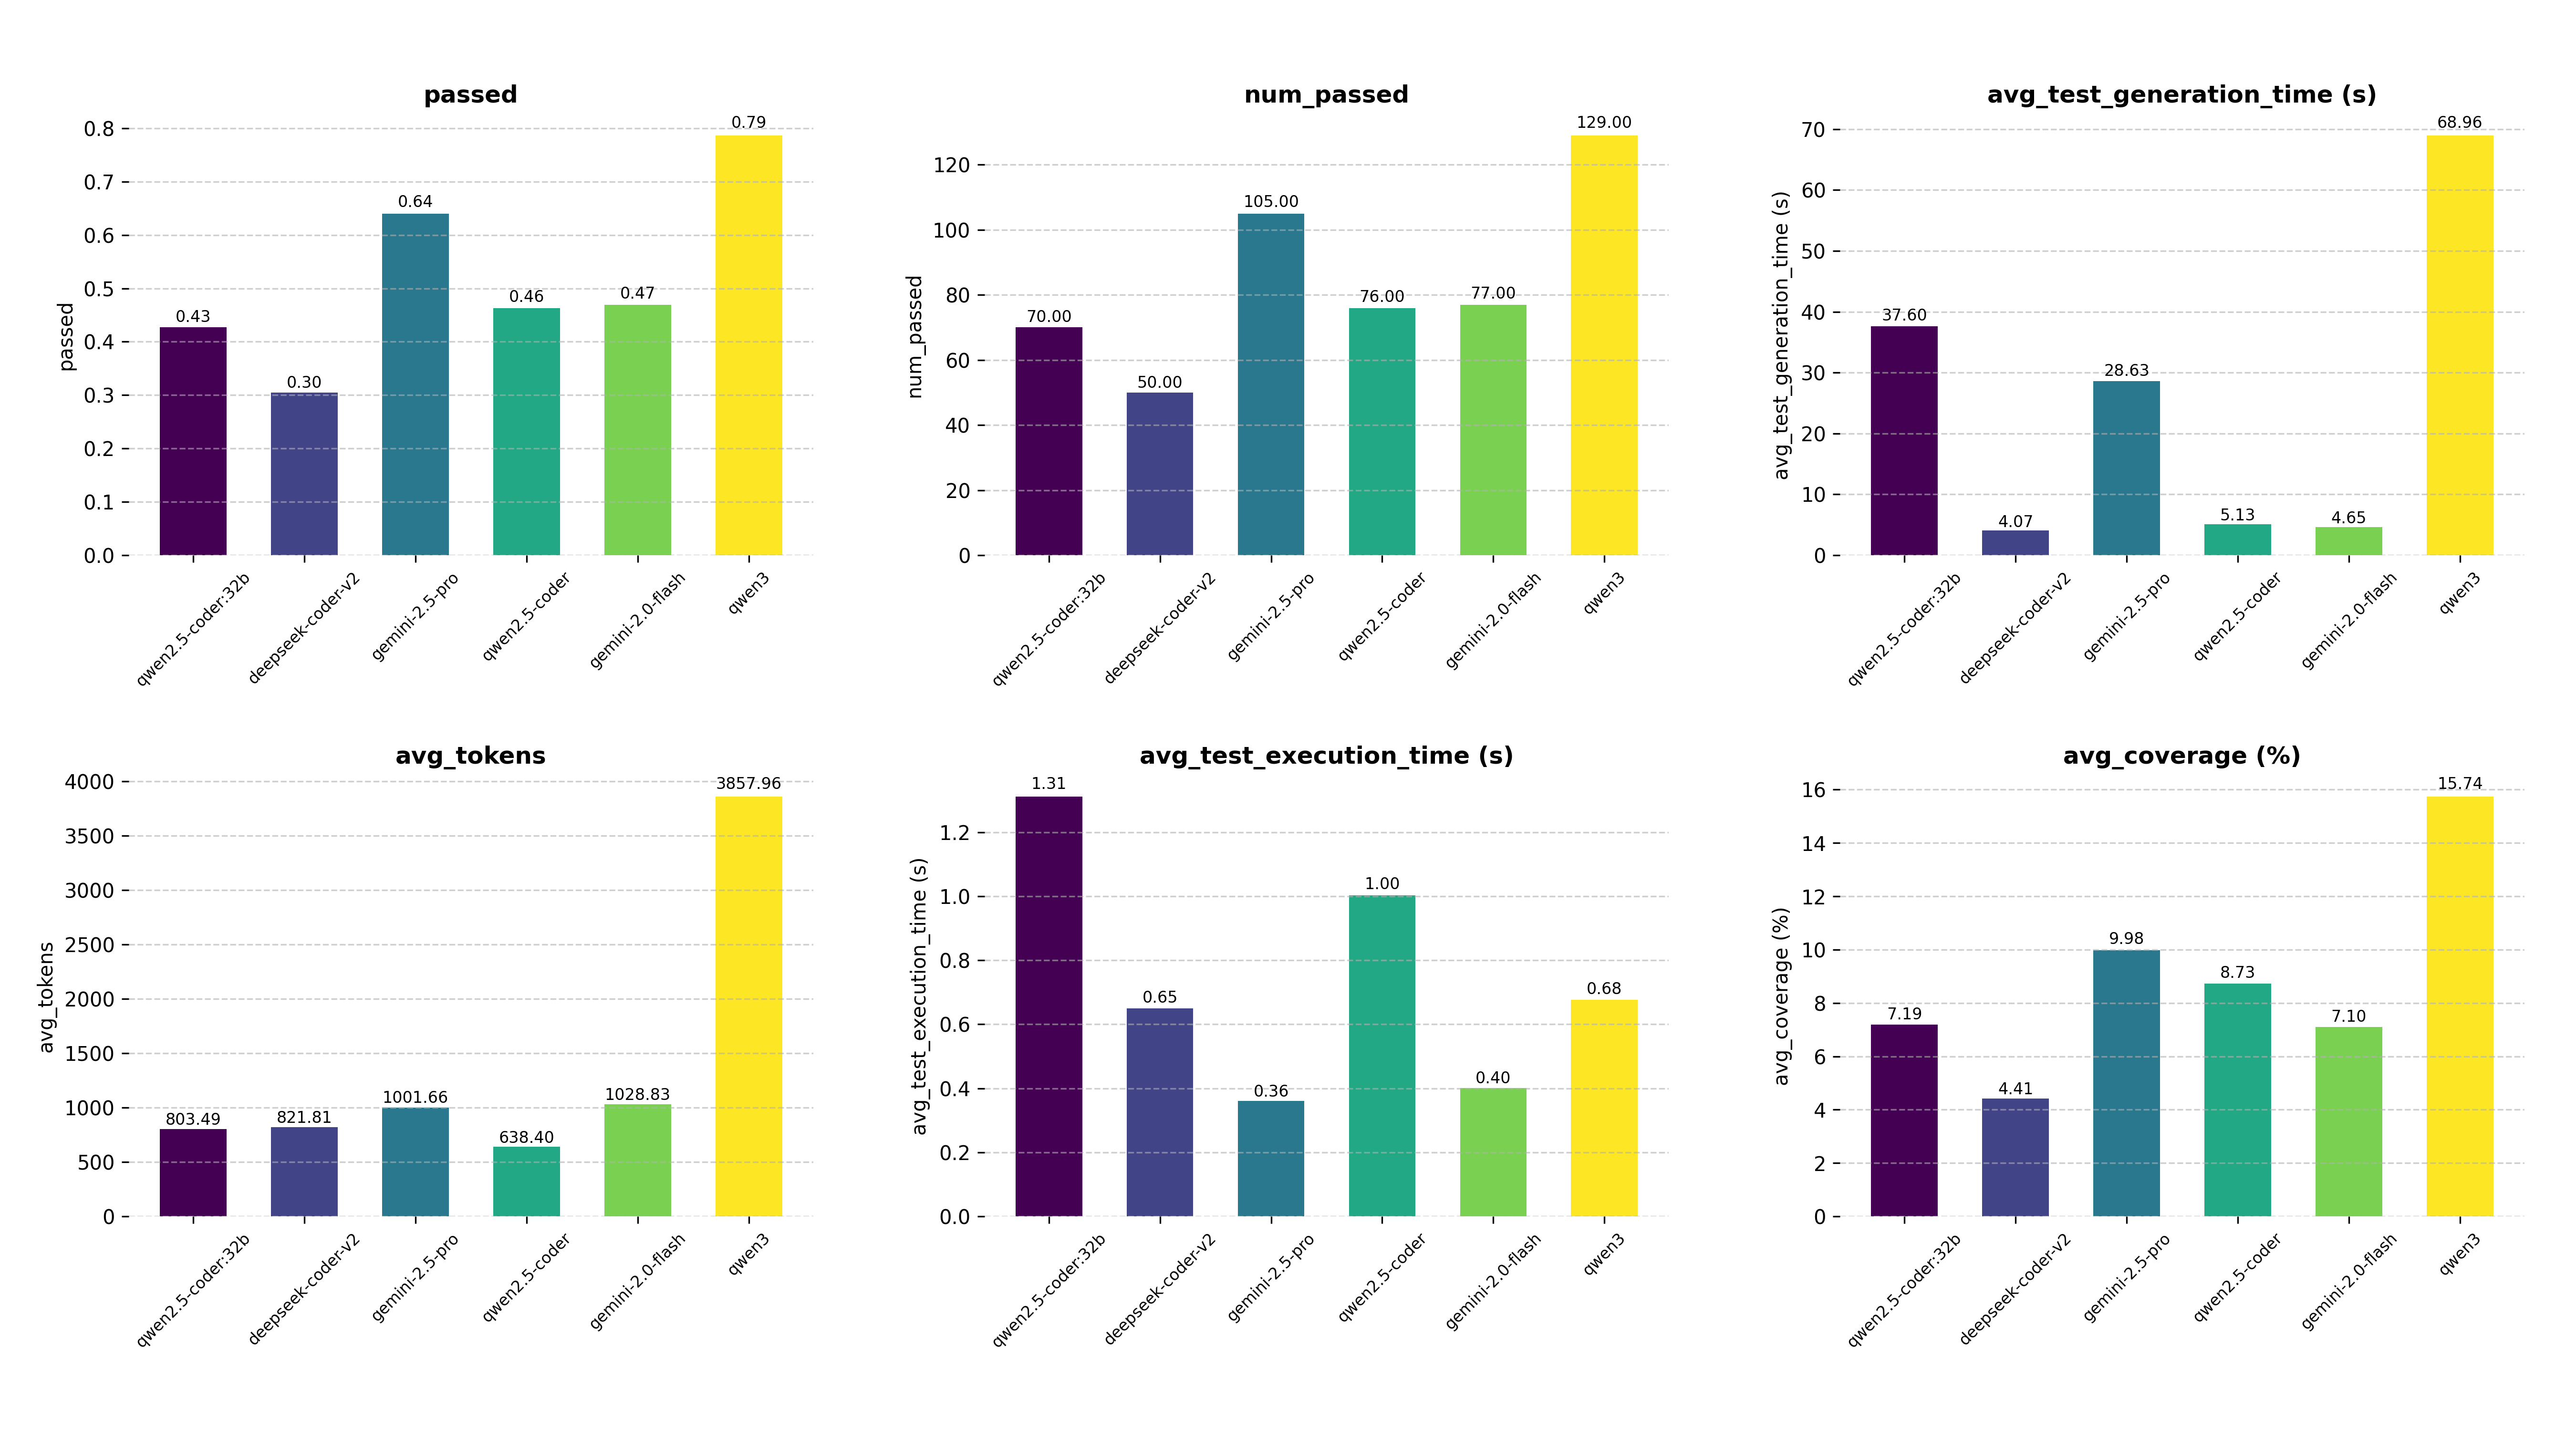
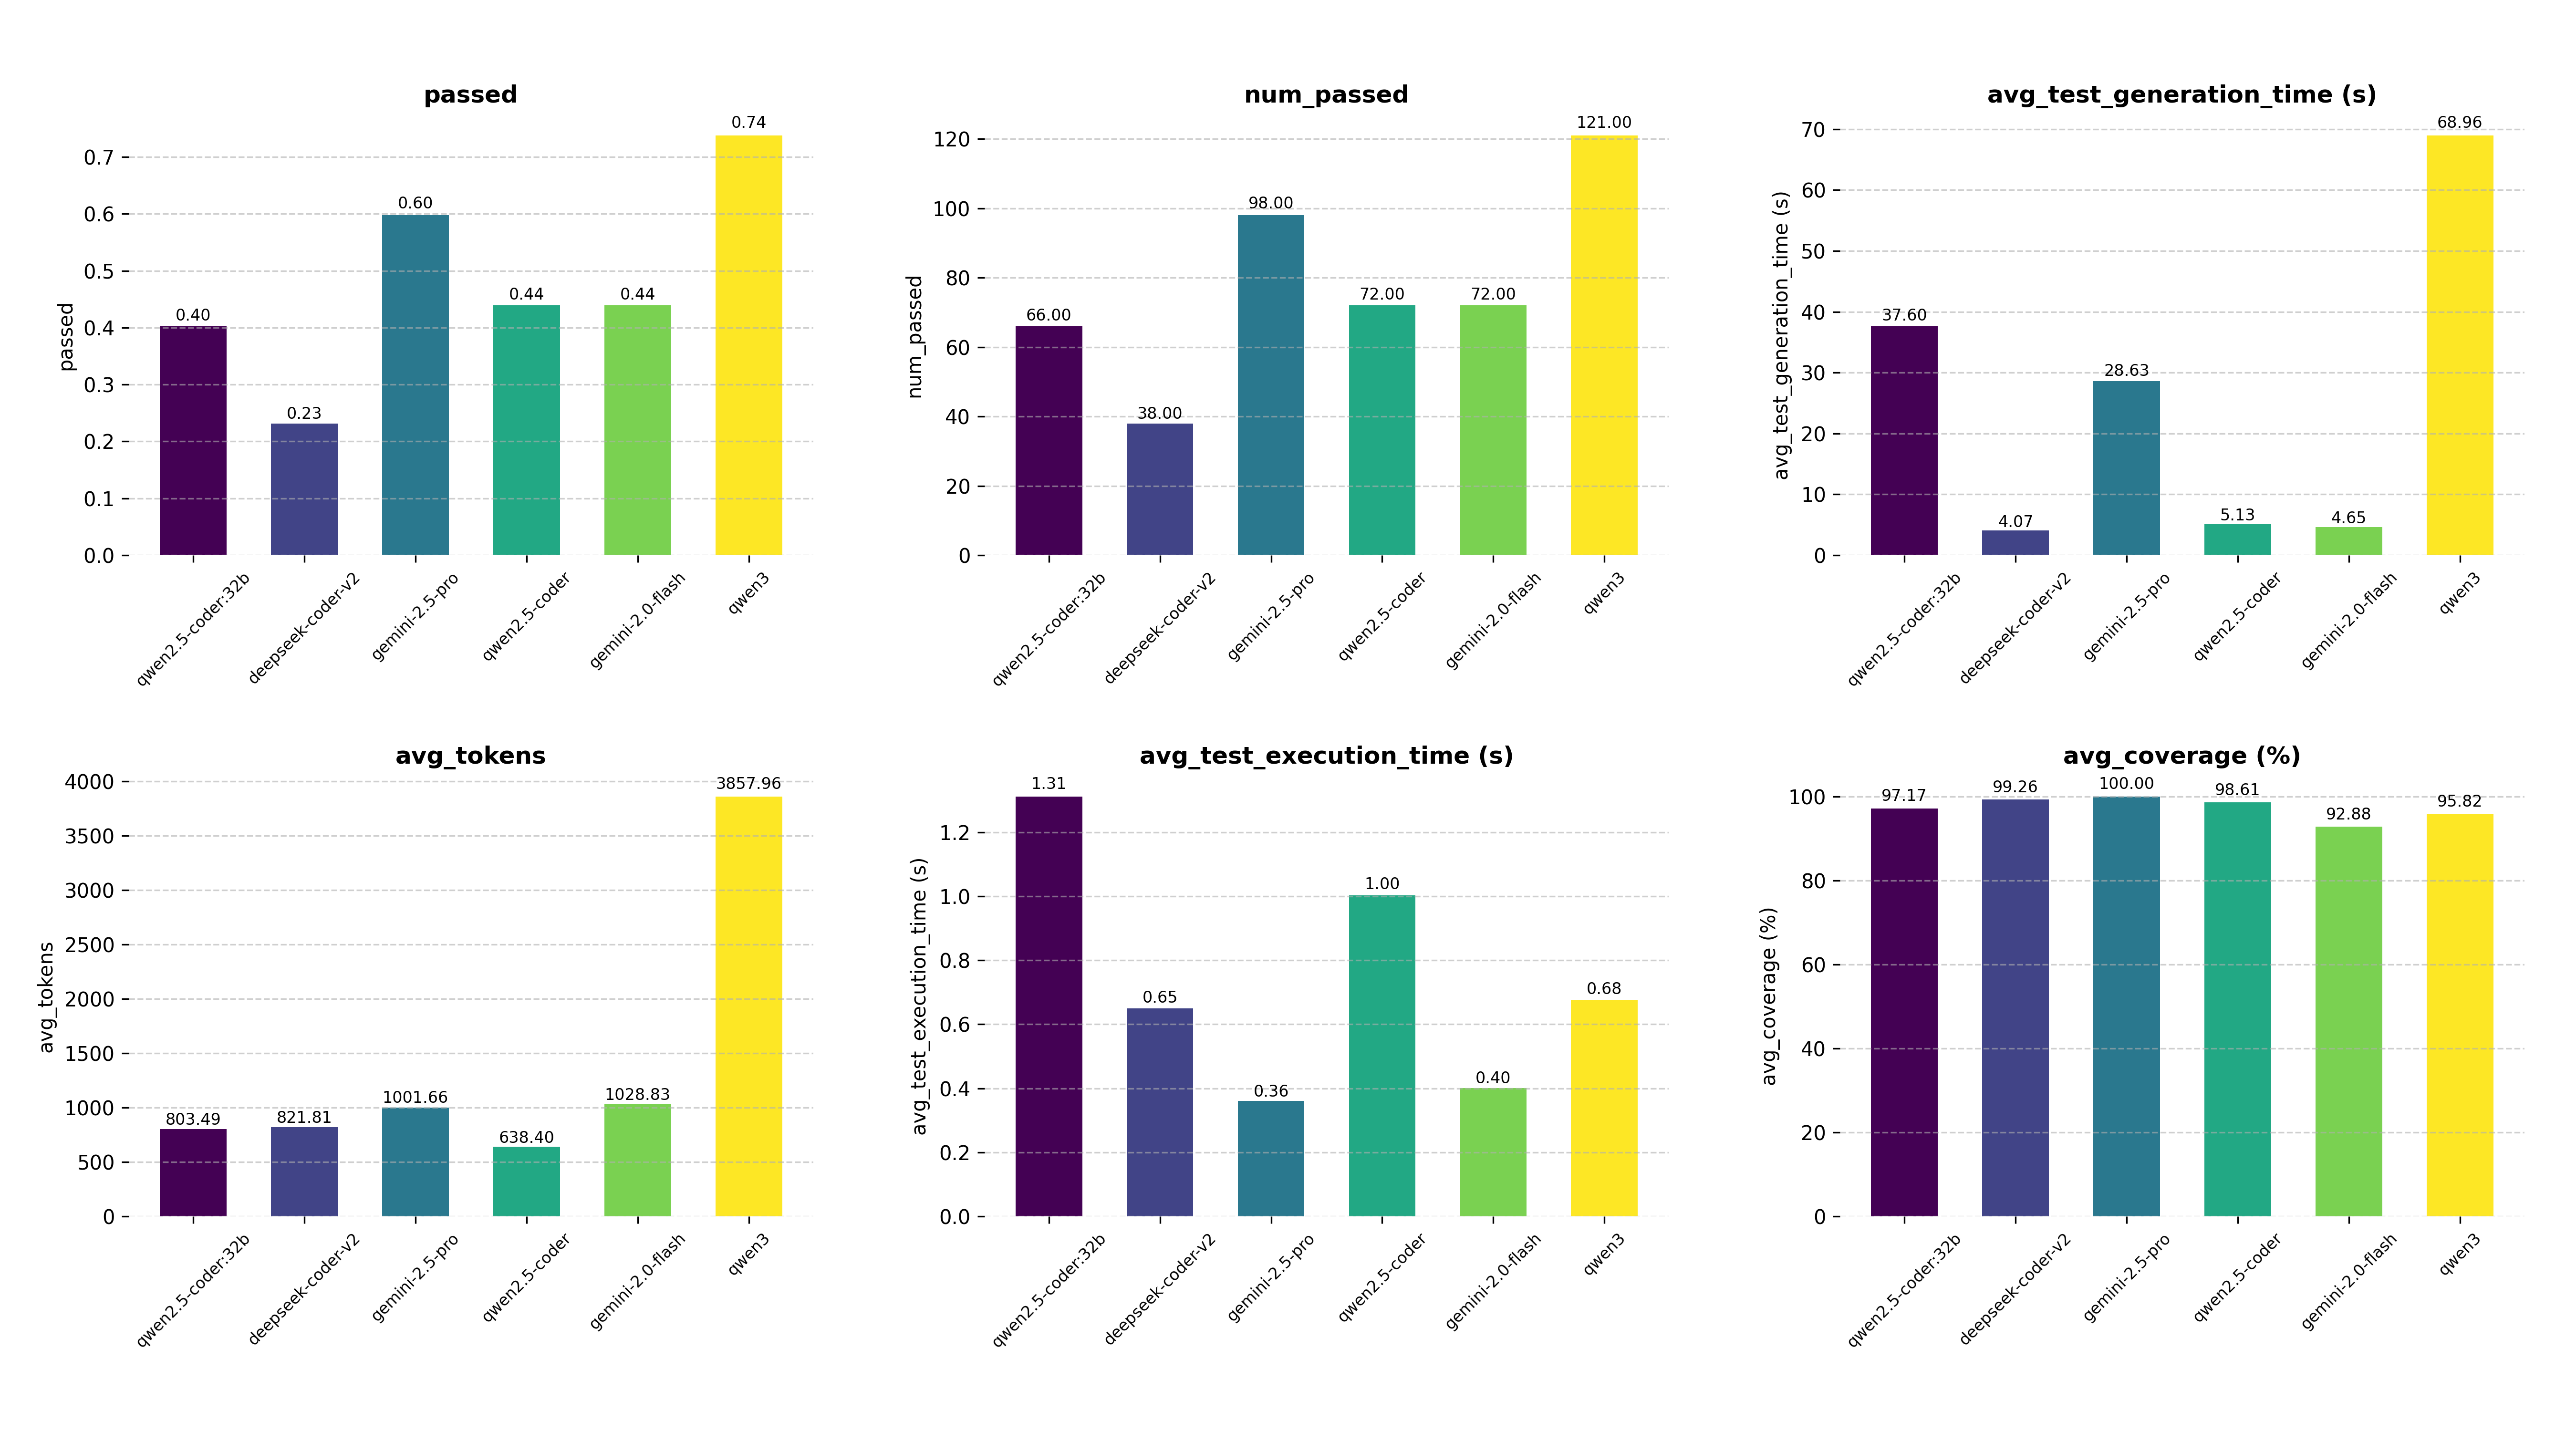
correction on test designer passed and coverage. New method to compute coverage.

diff --git a/experiments/test_designer/Coverage_evaluator.py b/experiments/test_designer/Coverage_evaluator.py
@@ -1,0 +1,110 @@
+import asyncio
+import tempfile
+from autogen_ext.code_executors.docker import DockerCommandLineCodeExecutor
+from app.agents.coding_agents.utils.Utils import *
+from app.agents.coding_agents.utils.Code_Extractors import *
+from app.Utils import *
+from experiments.MessageTypesTest import *
+import pandas as pd
+import time
+
+
+async def check_tests(function: str, test:str, executor, ctx):
+    # Installing dependencies in container
+    dependencies = "```sh\npip install numpy```"
+    code_block = extract_markdown_code_blocks(dependencies)
+
+    code =  function + test
+    invocation_code = CodeBlock(code=code, language='python')
+    code_block.append(invocation_code)
+
+    start_time = time.perf_counter()
+    result = await executor.execute_code_blocks(code_block, ctx)
+    end_time = time.perf_counter()
+
+    return result, end_time - start_time
+
+
+async def execute_function(function: str, test:str, executor, ctx):
+    # Installing dependencies in container
+    full_script = f"{function}\n\n{test}"
+
+
+    dependencies = "```sh\npip install numpy\npip install coverage```"
+    code_block = extract_markdown_code_blocks(dependencies)
+
+    code = f"""\nimport os\nimport sys\ndef run():\n    try:\n        with open('solution.py', 'w') as f:\n           f.write({repr(full_script)})\n    except Exception as e:\n        return\n    exit_code = os.system("coverage run --source=. solution.py")\n    os.system("coverage report -m")\nrun()"""
+    invocation_code = CodeBlock(code=code, language='python')
+    code_block.append(invocation_code)
+
+
+    result = await executor.execute_code_blocks(code_block, ctx)
+
+    print(result.output)
+
+    match = re.search(r'(\d+)\s*%', result.output)
+    if match:
+        coverage = int(match.group(1))
+    else:
+        # Cover the cases where the output is nor an AssertionError neither a coverage report
+        coverage = 0
+
+    print(coverage)
+
+    return coverage
+
+
+
+async def main(llm):
+    work_dir = tempfile.mkdtemp()
+    executor = DockerCommandLineCodeExecutor(work_dir=work_dir)
+    ctx = CancellationToken()
+    await executor.start()
+
+    # Importing the dataset
+    humaneval = pd.read_parquet("hf://datasets/evalplus/humanevalplus/data/test-00000-of-00001-5973903632b82d40.parquet")
+    file_name = "designer_results/" + llm + ".parquet"
+    df = pd.read_parquet(file_name)
+
+    for index, row in df.iterrows():
+        if row['passed']:
+            task_id = row['task_id']
+            print_yellow(task_id)
+
+            he_row = humaneval[humaneval['task_id'] == task_id]
+            code = he_row['prompt'].values[0] + he_row['canonical_solution'].values[0]
+            tests = row['tests']
+
+            result, execution_time_generated = await check_tests(code, tests, executor,
+                                                                      ctx)
+            if "Error" in result.output:
+                passed = False
+                coverage_value = 0
+            else:
+                passed = True
+
+
+
+                coverage_value = await execute_function(code, tests, executor, ctx)
+
+            df.at[index, 'coverage'] = coverage_value
+            df.at[index, 'passed'] = passed
+
+            print(f"Task {task_id}: Coverage {coverage_value}% saved.")
+
+    df.to_parquet(file_name, index=False)
+
+    await executor.stop()
+
+
+
+if __name__ == "__main__":
+
+    load_env_variables()
+    llm = get_config_data("../config_test.yaml")
+    designer = llm['test_designer']
+    try:
+        asyncio.run(main(designer))
+    finally:
+        logging.shutdown()
+

diff --git a/experiments/test_designer/designer_results/GraphMakerDesigner.py b/experiments/test_designer/designer_results/GraphMakerDesigner.py
@@ -54,59 +54,56 @@ def make_vertical_bar_plot():
     plt.show()
 
 
-import pandas as pd
-import matplotlib.pyplot as plt
-import numpy as np
-import math
+def make_metric_plot(metric, display_name=None):
+    if display_name is None:
+        display_name = metric
 
-
-def make_metric_plot(metric):
     try:
         df_csv = pd.read_csv('../results.csv')
     except FileNotFoundError:
-        print("Errore: Il file '../results.csv' non è stato trovato.")
+        print("Error: The file '../results.csv' was not found.")
         return
-
-    models = df_csv['model'].tolist()
 
     if metric not in df_csv.columns:
-        print(f"Errore: La metrica '{metric}' non è presente nelle colonne del file CSV.")
-        print(f"Metriche disponibili: {df_csv.columns.tolist()}")
+        print(f"Error: The metric '{metric}' is not present in the CSV columns.")
+        print(f"Available metrics: {df_csv.columns.tolist()}")
         return
 
+    all_models = df_csv['model'].unique()
+    colors_list = plt.cm.viridis(np.linspace(0, 1, len(all_models)))
+    color_map = {model: color for model, color in zip(all_models, colors_list)}
+
+    df_sorted = df_csv.sort_values(by=metric, ascending=True)
+
+    models_sorted = df_sorted['model'].tolist()
+    values_sorted = df_sorted[metric].values
+
+    plot_colors = [color_map[m] for m in models_sorted]
 
     fig, ax = plt.subplots(figsize=(10, 6))
 
-    colors = plt.cm.viridis(np.linspace(0, 1, len(models)))
-    color_map = {model: color for model, color in zip(models, colors)}
-
-    df_value = df_csv.copy()
-    models_plot = models
-    valori = df_value[metric].values
-
-    plot_colors = [color_map[model] for model in models_plot]
-
-    bars = ax.bar(models_plot, valori, color=plot_colors, width=0.6)
+    bars = ax.barh(models_sorted, values_sorted, color=plot_colors, height=0.6)
 
     for spine in ax.spines.values():
         spine.set_visible(False)
 
-    ax.set_title(f'Confronto Modelli per: {metric}', fontsize=16, weight='bold')
-    ax.set_ylabel(metric, fontsize=12)
-    ax.set_xticks(range(len(models_plot)))
-    ax.set_xticklabels(models_plot, rotation=45, ha='right', fontsize=10)
-    ax.yaxis.grid(True, linestyle='--', alpha=0.6)
+    ax.set_title(f'Model Comparison: {display_name}', fontsize=16, weight='bold')
+    ax.set_xlabel(display_name, fontsize=12)
+    ax.set_yticks(range(len(models_sorted)))
+    ax.set_yticklabels(models_sorted, fontsize=10)
+    ax.xaxis.grid(True, linestyle='--', alpha=0.6)
 
     for bar in bars:
-        yval = bar.get_height()
-        ax.text(bar.get_x() + bar.get_width() / 2.0, yval * 1.01, f'{yval:.2f}',
-                ha='center', va='bottom', fontsize=10, weight='bold')
+        width = bar.get_width()
+        ax.text(width + (width * 0.01), bar.get_y() + bar.get_height() / 2,
+                f'{width:.2f}', ha='left', va='center', fontsize=10, weight='bold')
 
     plt.tight_layout()
-    plt.savefig('../comparison_' + metric + '.png', dpi=300)
 
+    save_name = display_name.lower().replace(' ', '_')
+    plt.savefig(f'../comparison_{save_name}_designer.png', dpi=300)
     plt.show()
 
 
 #make_vertical_bar_plot()
-make_metric_plot('passed')
+make_metric_plot('avg_coverage (%)', 'average test coverage (%)')

diff --git a/experiments/test_designer/Designer_evaluator.py b/experiments/test_designer/Designer_evaluator.py
@@ -23,10 +23,10 @@ needs to download the package 'coverage' to calculate the coverage.
 """
 async def execute_function(function: str, test:str, executor, ctx):
     # Installing dependencies in container
-    dependencies = "```sh\npip install numpy\npip install coverage```"
+    dependencies = "```sh\npip install numpy```"
     code_block = extract_markdown_code_blocks(dependencies)
 
-    code = "import coverage\n\ncov = coverage.Coverage()\n\ncov.start()\n\n" + function + test +"\n\ncov.stop()\n\ncov.report()"
+    code = function + test
     invocation_code = CodeBlock(code=code, language='python')
     code_block.append(invocation_code)
 
@@ -73,6 +73,7 @@ async def main(llm, client, system_prompt):
         test = row.test
         canonical_solution = row.canonical_solution
         canonical_code = prompt + canonical_solution
+        coverage = 0
 
         # Function already generated in a previous experiment
         if task_id in results_df['task_id'].values:
@@ -87,18 +88,12 @@ async def main(llm, client, system_prompt):
         if test_code:
             test_code_string = test_code[0].code
             result, execution_time_generated = await execute_function(canonical_code, test_code_string, executor, response.ctx)
-            if "AssertionError" in result.output:
+            if "Error" in result.output:
                 passed = False
-                coverage = 0
+
             else:
                 passed = True
-                # I need to extract the coverage value from the output string
-                match = re.search(r'(\d+)\s*%', result.output)
-                if match:
-                    coverage = int(match.group(1))
-                else:
-                    # Cover the cases where the output is nor an AssertionError neither a coverage report
-                    coverage = 0
+
         else:
             # In the case no code can be extracted from the TestDesigner response we consider it a failure
             passed = False

diff --git a/experiments/test_designer/designer_results/ResultMakerDesigner.py b/experiments/test_designer/designer_results/ResultMakerDesigner.py
@@ -30,15 +30,15 @@ def write_csv():
     avg_generation_time = df['generation_time'].mean()
     avg_tokens = df['tokens'].mean()
     avg_execution_time_generation = df['execution_time'].mean()
-    avg_coverage = df['coverage'].mean()
+    avg_coverage = df[df['passed'] == True]['coverage'].mean()
 
 
-    print(f"Passed: {passed:.4f}")
-    print(f"Num passed: {num_passed:.4f}")
+    print(f"Passed: {passed}")
+    print(f"Num passed: {num_passed}")
     print(f"\nAverage Generation Time: {avg_generation_time:.4f}")
     print(f"\nAverage Tokens: {avg_tokens:.4f}")
     print(f"Average Execution Time: {avg_execution_time_generation:.4f}")
-    print(f"\nAverage Coverage: {avg_coverage:.4f}")
+    print(f"\nAverage Coverage: {avg_coverage}")
 
     results_data = {
         'model': [designer],